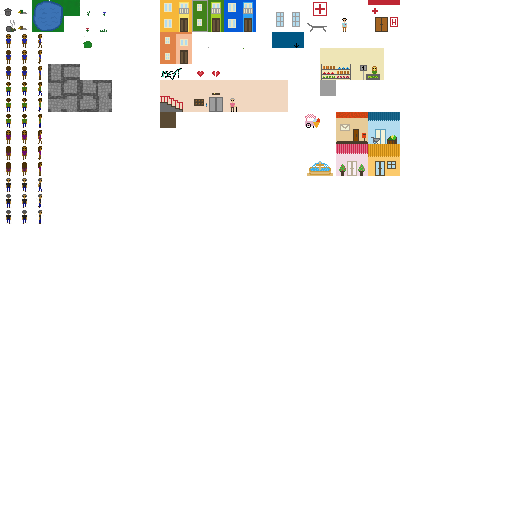
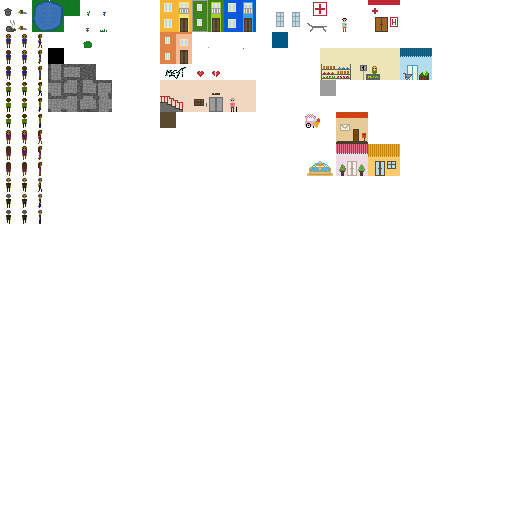
cobble assety

diff --git a/Src/Assets/AssetBank.cs b/Src/Assets/AssetBank.cs
@@ -150,6 +150,18 @@ namespace yolo
             public Sprite HouseFloor { get; init; }
             public Sprite HouseGrandma { get; init; }
             public Sprite HouseWall { get; init; }
+            
+            public Sprite Cobble { get; init; }
+            public Sprite Cobble1 { get; init; }
+            public Sprite Cobble2 { get; init; }
+            public Sprite Cobble3 { get; init; }
+            public Sprite Cobble4 { get; init; }
+            public Sprite Cobble5 { get; init; }
+            public Sprite Cobble6 { get; init; }
+            public Sprite Cobble7 { get; init; }
+            public Sprite Cobble8 { get; init; }
+            public Sprite Cobble9 { get; init; }
+            public Sprite Cobble10 { get; init; }
         }
 
         public TileBank Tiles { get; private set; }
@@ -185,8 +197,6 @@ namespace yolo
             public Tile MarketL { get; init; }
             public Tile MarketR { get; init; }
             
-            //public Tile Cobble { get; init; } // 565656
-            
             // CENTER ff0000
             // SIDE ff8787
             
@@ -211,6 +221,18 @@ namespace yolo
             public Tile MarketCheckoutR { get; init; }
             public Tile MarketFloor { get; init; }
             public Tile MarketWall { get; init; }
+            
+            public Tile Cobble { get; init; } // 565656
+            public Tile Cobble1 { get; init; }
+            public Tile Cobble2 { get; init; }
+            public Tile Cobble3 { get; init; }
+            public Tile Cobble4 { get; init; }
+            public Tile Cobble5 { get; init; }
+            public Tile Cobble6 { get; init; }
+            public Tile Cobble7 { get; init; }
+            public Tile Cobble8 { get; init; }
+            public Tile Cobble9 { get; init; }
+            public Tile Cobble10 { get; init; }
         }
         
         public TimedSpriteSetBank TimedSprites { get; private set; }
@@ -371,6 +393,18 @@ namespace yolo
                 HouseFloor = new Sprite {Texture = Textures.Main, SourceRect = new Rectangle(160, 112, 16, 16)},
                 HouseGrandma = new Sprite {Texture = Textures.Main, SourceRect = new Rectangle(224, 80, 16, 32)},
                 HouseWall = new Sprite {Texture = Textures.Main, SourceRect = new Rectangle(240, 80, 16, 32)},
+                
+                Cobble = new Sprite {Texture = Textures.Main, SourceRect = new Rectangle(80, 64, 16, 16)},
+                Cobble1 = new Sprite {Texture = Textures.Main, SourceRect = new Rectangle(64, 64, 16, 16)},
+                Cobble2 = new Sprite {Texture = Textures.Main, SourceRect = new Rectangle(48, 64, 16, 16)},
+                Cobble3 = new Sprite {Texture = Textures.Main, SourceRect = new Rectangle(48, 80, 16, 16)},
+                Cobble4 = new Sprite {Texture = Textures.Main, SourceRect = new Rectangle(64, 80, 16, 16)},
+                Cobble5 = new Sprite {Texture = Textures.Main, SourceRect = new Rectangle(80, 80, 16, 16)},
+                Cobble6 = new Sprite {Texture = Textures.Main, SourceRect = new Rectangle(96, 80, 16, 16)},
+                Cobble7 = new Sprite {Texture = Textures.Main, SourceRect = new Rectangle(48, 96, 16, 16)},
+                Cobble8 = new Sprite {Texture = Textures.Main, SourceRect = new Rectangle(64, 96, 16, 16)},
+                Cobble9 = new Sprite {Texture = Textures.Main, SourceRect = new Rectangle(80, 96, 16, 16)},
+                Cobble10 = new Sprite {Texture = Textures.Main, SourceRect = new Rectangle(96, 96, 16, 16)},
             };
 
             Tiles = new TileBank
@@ -425,6 +459,18 @@ namespace yolo
                 
                 MarketL = new Tile {Sprite = Sprites.MarketL, Walkable=false, Flat = false}, //
                 MarketR = new Tile {Sprite = Sprites.MarketR, Walkable=false, Flat = false}, //
+                
+                Cobble = new Tile {Sprite = Sprites.Cobble},
+                Cobble1 = new Tile {Sprite = Sprites.Cobble1},
+                Cobble2 = new Tile {Sprite = Sprites.Cobble2},
+                Cobble3 = new Tile {Sprite = Sprites.Cobble3},
+                Cobble4 = new Tile {Sprite = Sprites.Cobble4},
+                Cobble5 = new Tile {Sprite = Sprites.Cobble5},
+                Cobble6 = new Tile {Sprite = Sprites.Cobble6},
+                Cobble7 = new Tile {Sprite = Sprites.Cobble7},
+                Cobble8 = new Tile {Sprite = Sprites.Cobble8},
+                Cobble9 = new Tile {Sprite = Sprites.Cobble9},
+                Cobble10 = new Tile {Sprite = Sprites.Cobble10},
             };
             
             int personWalkPeriod = 300;

diff --git a/Src/Assets/SceneLoader.cs b/Src/Assets/SceneLoader.cs
@@ -56,6 +56,14 @@ namespace yolo
                 {0x9d9d9d, assets.Tiles.MarketFloor},
 
                 {0x428b1d, assets.Tiles.ParkGrass},
+                
+                {0x383838, assets.Tiles.Cobble   },
+                {0x402b2b, assets.Tiles.Cobble1  },
+                {0x361b1b, assets.Tiles.Cobble2  },
+                {0x963030, assets.Tiles.Cobble4  },
+                {0x840a0a, assets.Tiles.Cobble7  },
+                {0xcc7a7a, assets.Tiles.Cobble9  },
+                {0xff3232, assets.Tiles.Cobble10 },
             };
 
             Tile[] lHouses =
